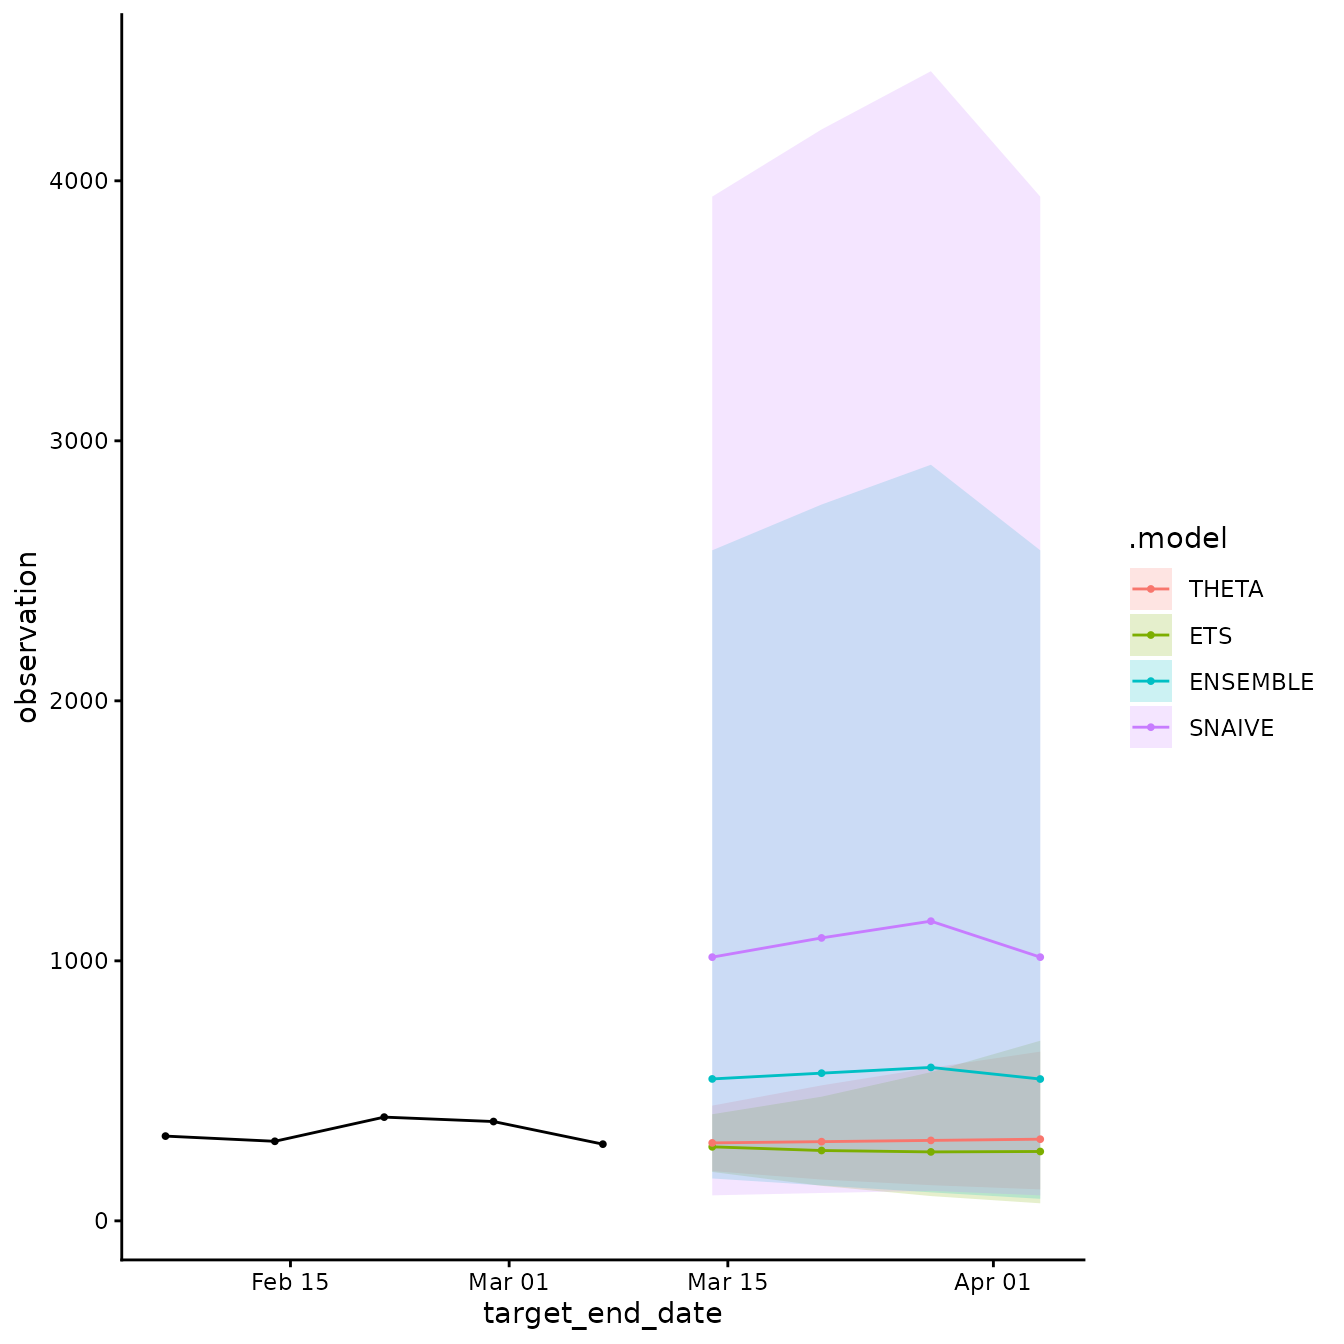
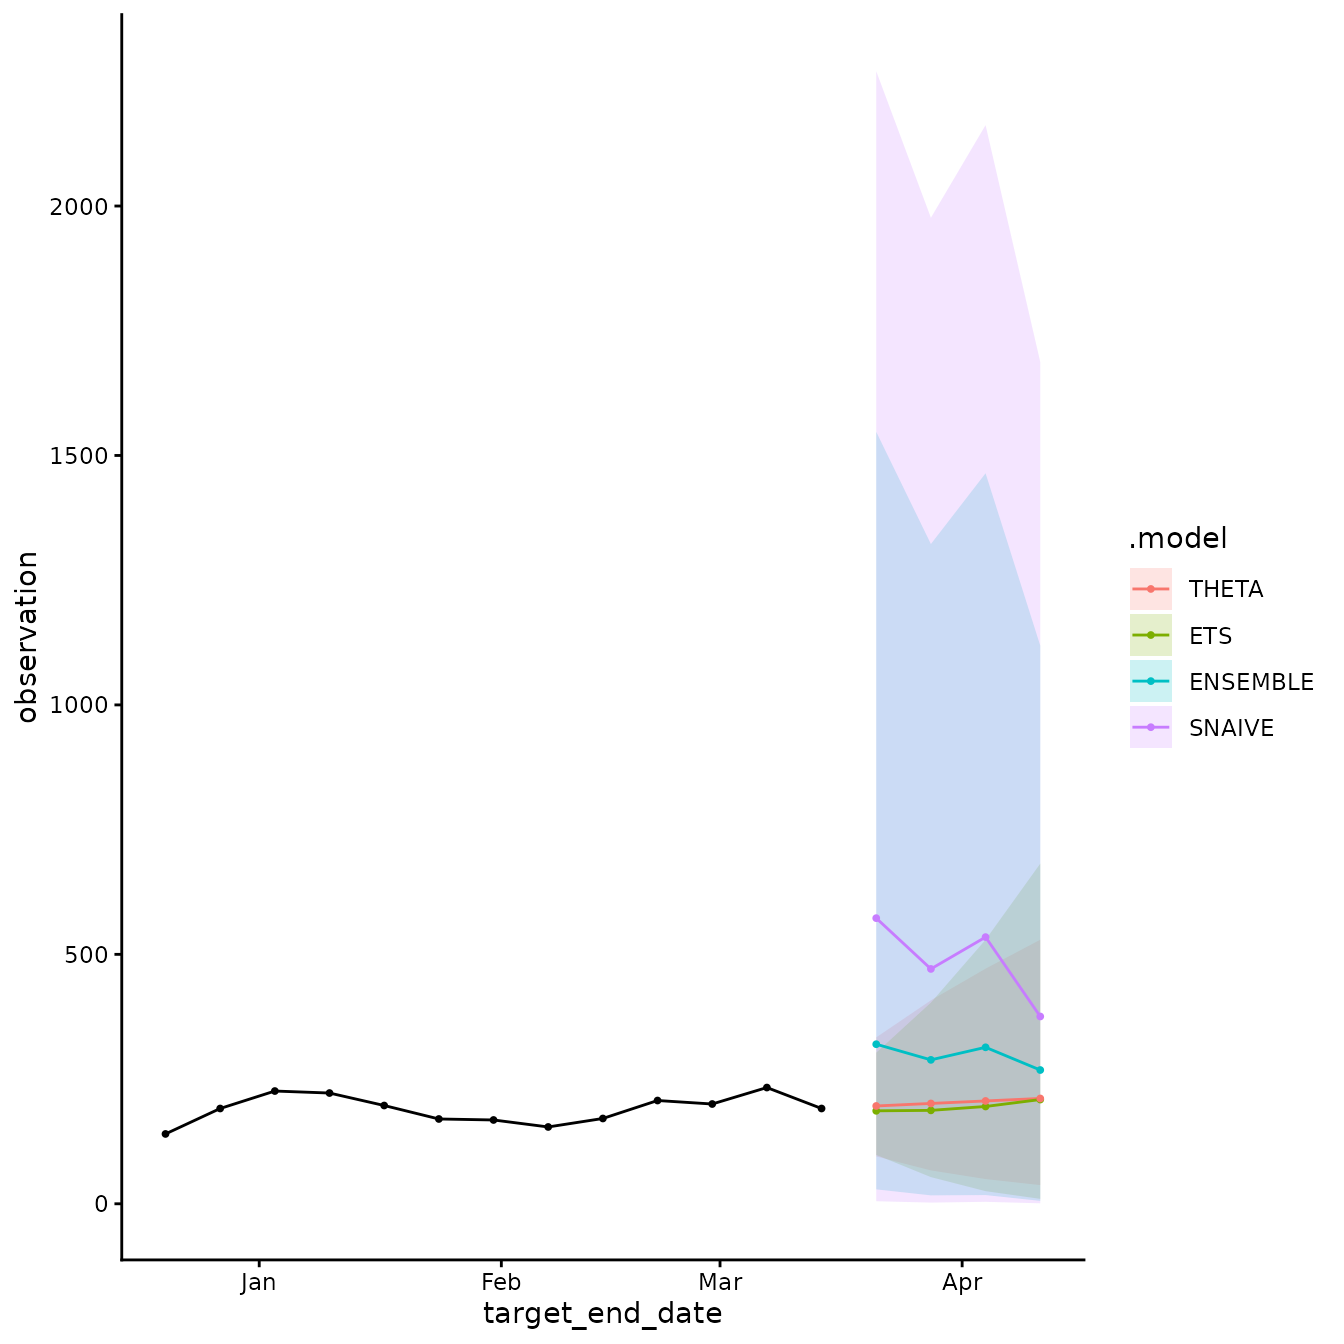
Deploying to gh-pages from @ ACCIDDA/acciddasuite@dce0e817cadc1a724e9abd7bb4d2f0451f2cc65a 🚀

diff --git a/articles/acciddasuite.html b/articles/acciddasuite.html
@@ -101,17 +101,17 @@ package.</p>
 <span><span class="kw"><a href="https://rdrr.io/r/base/library.html" class="external-link">library</a></span><span class="op">(</span><span class="va"><a href="https://ggplot2.tidyverse.org" class="external-link">ggplot2</a></span><span class="op">)</span></span>
 <span><span class="kw"><a href="https://rdrr.io/r/base/library.html" class="external-link">library</a></span><span class="op">(</span><span class="va"><a href="https://cygei.github.io/pipetime/;" class="external-link">pipetime</a></span><span class="op">)</span></span>
 <span><span class="kw"><a href="https://rdrr.io/r/base/library.html" class="external-link">library</a></span><span class="op">(</span><span class="va"><a href="https://github.com/ACCIDDA/acciddasuite" class="external-link">acciddasuite</a></span><span class="op">)</span></span>
-<span><span class="va">df</span> <span class="op">&lt;-</span> <span class="fu"><a href="../reference/get_data.html">get_data</a></span><span class="op">(</span>pathogen <span class="op">=</span> <span class="st">"covid"</span>, geo_values <span class="op">=</span> <span class="st">"ny"</span><span class="op">)</span></span>
+<span><span class="va">df</span> <span class="op">&lt;-</span> <span class="fu"><a href="../reference/get_data.html">get_data</a></span><span class="op">(</span>pathogen <span class="op">=</span> <span class="st">"covid"</span>, geo_values <span class="op">=</span> <span class="st">"nc"</span><span class="op">)</span></span>
 <span><span class="fu"><a href="https://rdrr.io/r/utils/head.html" class="external-link">head</a></span><span class="op">(</span><span class="va">df</span><span class="op">)</span></span>
 <span><span class="co">#&gt; <span style="color: #949494;"># A tibble: 6 × 5</span></span></span>
 <span><span class="co">#&gt;   as_of      location target            target_end_date observation</span></span>
 <span><span class="co">#&gt;   <span style="color: #949494; font-style: italic;">&lt;date&gt;</span>     <span style="color: #949494; font-style: italic;">&lt;chr&gt;</span>    <span style="color: #949494; font-style: italic;">&lt;chr&gt;</span>             <span style="color: #949494; font-style: italic;">&lt;date&gt;</span>                <span style="color: #949494; font-style: italic;">&lt;dbl&gt;</span></span></span>
-<span><span class="co">#&gt; <span style="color: #BCBCBC;">1</span> 2026-03-08 NY       wk inc covid hosp 2020-08-08              517</span></span>
-<span><span class="co">#&gt; <span style="color: #BCBCBC;">2</span> 2026-03-08 NY       wk inc covid hosp 2020-08-15              490</span></span>
-<span><span class="co">#&gt; <span style="color: #BCBCBC;">3</span> 2026-03-08 NY       wk inc covid hosp 2020-08-22              844</span></span>
-<span><span class="co">#&gt; <span style="color: #BCBCBC;">4</span> 2026-03-08 NY       wk inc covid hosp 2020-08-29              483</span></span>
-<span><span class="co">#&gt; <span style="color: #BCBCBC;">5</span> 2026-03-08 NY       wk inc covid hosp 2020-09-05              479</span></span>
-<span><span class="co">#&gt; <span style="color: #BCBCBC;">6</span> 2026-03-08 NY       wk inc covid hosp 2020-09-12              573</span></span></code></pre></div>
+<span><span class="co">#&gt; <span style="color: #BCBCBC;">1</span> 2026-03-15 NC       wk inc covid hosp 2020-08-08             <span style="text-decoration: underline;">1</span>008</span></span>
+<span><span class="co">#&gt; <span style="color: #BCBCBC;">2</span> 2026-03-15 NC       wk inc covid hosp 2020-08-15              782</span></span>
+<span><span class="co">#&gt; <span style="color: #BCBCBC;">3</span> 2026-03-15 NC       wk inc covid hosp 2020-08-22             <span style="text-decoration: underline;">1</span>150</span></span>
+<span><span class="co">#&gt; <span style="color: #BCBCBC;">4</span> 2026-03-15 NC       wk inc covid hosp 2020-08-29             <span style="text-decoration: underline;">2</span>055</span></span>
+<span><span class="co">#&gt; <span style="color: #BCBCBC;">5</span> 2026-03-15 NC       wk inc covid hosp 2020-09-05             <span style="text-decoration: underline;">1</span>762</span></span>
+<span><span class="co">#&gt; <span style="color: #BCBCBC;">6</span> 2026-03-15 NC       wk inc covid hosp 2020-09-12              941</span></span></code></pre></div>
 <p>To look at what <code>df</code> looks like, you can access the
 example <code>csv</code> file here: <a href="https://github.com/ACCIDDA/acciddasuite/blob/main/example_data.csv" class="external-link">example_data.csv</a>.</p>
 </div>
@@ -124,9 +124,11 @@ specific cutoff point (<code>eval_start_date</code>), then forecast
 <code>h</code> weeks ahead with expanding windows. The further back in
 time <code>eval_start_date</code> is, the more computationally intensive
 the evaluation step will be.</p>
+<p>We visualize the data and decide on the
+<code>eval_start_date</code>.</p>
 <div class="sourceCode" id="cb2"><pre class="downlit sourceCode r">
-<code class="sourceCode R"><span><span class="co"># We ony evaluate on the last 30 days of data for demonstration purposes</span></span>
-<span><span class="va">eval_start_date</span> <span class="op">&lt;-</span> <span class="fu"><a href="https://rdrr.io/r/base/Extremes.html" class="external-link">max</a></span><span class="op">(</span><span class="va">df</span><span class="op">$</span><span class="va">target_end_date</span><span class="op">)</span> <span class="op">-</span> <span class="fl">30</span></span></code></pre></div>
+<code class="sourceCode R"><span><span class="co"># We only evaluate on the last 90 days of data for demonstration purposes</span></span>
+<span><span class="va">eval_start_date</span> <span class="op">&lt;-</span> <span class="fu"><a href="https://rdrr.io/r/base/Extremes.html" class="external-link">max</a></span><span class="op">(</span><span class="va">df</span><span class="op">$</span><span class="va">target_end_date</span><span class="op">)</span> <span class="op">-</span> <span class="fl">90</span></span></code></pre></div>
 <p>Default models are:  * <code>SNAIVE</code> (Seasonal Naïve): Assumes
 this week will look like the same week last year. The simplest possible
 baseline. * <code>ETS</code> (Exponential Smoothing): A weighted average
@@ -151,14 +153,14 @@ fit.</p>
 <span><span class="co">#&gt; Models evaluated:</span></span>
 <span><span class="co">#&gt;  model_id       wis</span></span>
 <span><span class="co">#&gt;    &lt;char&gt;     &lt;num&gt;</span></span>
-<span><span class="co">#&gt;     THETA  26.88197</span></span>
-<span><span class="co">#&gt;       ETS  31.33395</span></span>
-<span><span class="co">#&gt;  ENSEMBLE  61.29016</span></span>
-<span><span class="co">#&gt;    SNAIVE 256.25401</span></span>
+<span><span class="co">#&gt;     THETA  35.32154</span></span>
+<span><span class="co">#&gt;       ETS  39.75354</span></span>
+<span><span class="co">#&gt;  ENSEMBLE  49.24098</span></span>
+<span><span class="co">#&gt;    SNAIVE 136.40562</span></span>
 <span><span class="co">#&gt; </span></span>
 <span><span class="co">#&gt; Forecast horizon:</span></span>
-<span><span class="co">#&gt;   From: 2026-02-07 </span></span>
-<span><span class="co">#&gt;   To:   2026-04-04 </span></span>
+<span><span class="co">#&gt;   From: 2025-12-20 </span></span>
+<span><span class="co">#&gt;   To:   2026-04-11 </span></span>
 <span><span class="co">#&gt; </span></span>
 <span><span class="co">#&gt; Contents:</span></span>
 <span><span class="co">#&gt;   $hubcast   hub forecast object</span></span>
@@ -200,8 +202,8 @@ documentation</a> for more information).</p>
 <code class="sourceCode R"><span><span class="fu"><a href="https://rdrr.io/pkg/pipetime/man/get_log.html" class="external-link">get_log</a></span><span class="op">(</span><span class="op">)</span></span>
 <span><span class="co">#&gt; $timing</span></span>
 <span><span class="co">#&gt;             timestamp       label  duration unit</span></span>
-<span><span class="co">#&gt; 1 2026-03-20 13:59:51  base fcast  6.808165 secs</span></span>
-<span><span class="co">#&gt; 2 2026-03-20 13:59:58 extra fcast 11.041293 secs</span></span></code></pre></div>
+<span><span class="co">#&gt; 1 2026-03-20 19:15:37  base fcast  9.385167 secs</span></span>
+<span><span class="co">#&gt; 2 2026-03-20 19:15:48 extra fcast 19.198079 secs</span></span></code></pre></div>
 </div>
 </div>
 <div class="section level2">

diff --git a/reference/get_data.html b/reference/get_data.html
@@ -82,20 +82,20 @@ for COVID-19, influenza, or RSV using <a href="https://cmu-delphi.github.io/epid
 <span class="r-wrn co"><span class="r-pr">#&gt;</span> limits if you proceed.</span>
 <span class="r-wrn co"><span class="r-pr">#&gt;</span> <span style="color: #00BBBB;">ℹ</span> See `?save_api_key()` for details on obtaining and setting API keys.</span>
 <span class="r-wrn co"><span class="r-pr">#&gt;</span> <span style="color: #555555;">This warning is displayed once every 8 hours.</span></span>
-<span class="r-out co"><span class="r-pr">#&gt;</span> <span style="color: #949494;"># A tibble: 584 × 5</span></span>
+<span class="r-out co"><span class="r-pr">#&gt;</span> <span style="color: #949494;"># A tibble: 586 × 5</span></span>
 <span class="r-out co"><span class="r-pr">#&gt;</span>    as_of      location target            target_end_date observation</span>
 <span class="r-out co"><span class="r-pr">#&gt;</span>    <span style="color: #949494; font-style: italic;">&lt;date&gt;</span>     <span style="color: #949494; font-style: italic;">&lt;chr&gt;</span>    <span style="color: #949494; font-style: italic;">&lt;chr&gt;</span>             <span style="color: #949494; font-style: italic;">&lt;date&gt;</span>                <span style="color: #949494; font-style: italic;">&lt;dbl&gt;</span></span>
-<span class="r-out co"><span class="r-pr">#&gt;</span> <span style="color: #BCBCBC;"> 1</span> 2026-03-08 CA       wk inc covid hosp 2020-08-08             <span style="text-decoration: underline;">4</span>836</span>
-<span class="r-out co"><span class="r-pr">#&gt;</span> <span style="color: #BCBCBC;"> 2</span> 2026-03-08 NY       wk inc covid hosp 2020-08-08              517</span>
-<span class="r-out co"><span class="r-pr">#&gt;</span> <span style="color: #BCBCBC;"> 3</span> 2026-03-08 CA       wk inc covid hosp 2020-08-15             <span style="text-decoration: underline;">4</span>273</span>
-<span class="r-out co"><span class="r-pr">#&gt;</span> <span style="color: #BCBCBC;"> 4</span> 2026-03-08 NY       wk inc covid hosp 2020-08-15              490</span>
-<span class="r-out co"><span class="r-pr">#&gt;</span> <span style="color: #BCBCBC;"> 5</span> 2026-03-08 CA       wk inc covid hosp 2020-08-22             <span style="text-decoration: underline;">3</span>498</span>
-<span class="r-out co"><span class="r-pr">#&gt;</span> <span style="color: #BCBCBC;"> 6</span> 2026-03-08 NY       wk inc covid hosp 2020-08-22              844</span>
-<span class="r-out co"><span class="r-pr">#&gt;</span> <span style="color: #BCBCBC;"> 7</span> 2026-03-08 CA       wk inc covid hosp 2020-08-29             <span style="text-decoration: underline;">3</span>100</span>
-<span class="r-out co"><span class="r-pr">#&gt;</span> <span style="color: #BCBCBC;"> 8</span> 2026-03-08 NY       wk inc covid hosp 2020-08-29              483</span>
-<span class="r-out co"><span class="r-pr">#&gt;</span> <span style="color: #BCBCBC;"> 9</span> 2026-03-08 CA       wk inc covid hosp 2020-09-05             <span style="text-decoration: underline;">2</span>888</span>
-<span class="r-out co"><span class="r-pr">#&gt;</span> <span style="color: #BCBCBC;">10</span> 2026-03-08 NY       wk inc covid hosp 2020-09-05              479</span>
-<span class="r-out co"><span class="r-pr">#&gt;</span> <span style="color: #949494;"># ℹ 574 more rows</span></span>
+<span class="r-out co"><span class="r-pr">#&gt;</span> <span style="color: #BCBCBC;"> 1</span> 2026-03-15 CA       wk inc covid hosp 2020-08-08             <span style="text-decoration: underline;">4</span>836</span>
+<span class="r-out co"><span class="r-pr">#&gt;</span> <span style="color: #BCBCBC;"> 2</span> 2026-03-15 NY       wk inc covid hosp 2020-08-08              517</span>
+<span class="r-out co"><span class="r-pr">#&gt;</span> <span style="color: #BCBCBC;"> 3</span> 2026-03-15 CA       wk inc covid hosp 2020-08-15             <span style="text-decoration: underline;">4</span>273</span>
+<span class="r-out co"><span class="r-pr">#&gt;</span> <span style="color: #BCBCBC;"> 4</span> 2026-03-15 NY       wk inc covid hosp 2020-08-15              490</span>
+<span class="r-out co"><span class="r-pr">#&gt;</span> <span style="color: #BCBCBC;"> 5</span> 2026-03-15 CA       wk inc covid hosp 2020-08-22             <span style="text-decoration: underline;">3</span>498</span>
+<span class="r-out co"><span class="r-pr">#&gt;</span> <span style="color: #BCBCBC;"> 6</span> 2026-03-15 NY       wk inc covid hosp 2020-08-22              844</span>
+<span class="r-out co"><span class="r-pr">#&gt;</span> <span style="color: #BCBCBC;"> 7</span> 2026-03-15 CA       wk inc covid hosp 2020-08-29             <span style="text-decoration: underline;">3</span>100</span>
+<span class="r-out co"><span class="r-pr">#&gt;</span> <span style="color: #BCBCBC;"> 8</span> 2026-03-15 NY       wk inc covid hosp 2020-08-29              483</span>
+<span class="r-out co"><span class="r-pr">#&gt;</span> <span style="color: #BCBCBC;"> 9</span> 2026-03-15 CA       wk inc covid hosp 2020-09-05             <span style="text-decoration: underline;">2</span>888</span>
+<span class="r-out co"><span class="r-pr">#&gt;</span> <span style="color: #BCBCBC;">10</span> 2026-03-15 NY       wk inc covid hosp 2020-09-05              479</span>
+<span class="r-out co"><span class="r-pr">#&gt;</span> <span style="color: #949494;"># ℹ 576 more rows</span></span>
 </code></pre></div>
     </div>
   </main><aside class="col-md-3"><nav id="toc" aria-label="Table of contents"><h2>On this page</h2>

diff --git a/articles/acciddasuite.md b/articles/acciddasuite.md
@@ -32,17 +32,17 @@ library(dplyr)
 library(ggplot2)
 library(pipetime)
 library(acciddasuite)
-df <- get_data(pathogen = "covid", geo_values = "ny")
+df <- get_data(pathogen = "covid", geo_values = "nc")
 head(df)
 #> # A tibble: 6 × 5
 #>   as_of      location target            target_end_date observation
 #>   <date>     <chr>    <chr>             <date>                <dbl>
-#> 1 2026-03-08 NY       wk inc covid hosp 2020-08-08              517
-#> 2 2026-03-08 NY       wk inc covid hosp 2020-08-15              490
-#> 3 2026-03-08 NY       wk inc covid hosp 2020-08-22              844
-#> 4 2026-03-08 NY       wk inc covid hosp 2020-08-29              483
-#> 5 2026-03-08 NY       wk inc covid hosp 2020-09-05              479
-#> 6 2026-03-08 NY       wk inc covid hosp 2020-09-12              573
+#> 1 2026-03-15 NC       wk inc covid hosp 2020-08-08             1008
+#> 2 2026-03-15 NC       wk inc covid hosp 2020-08-15              782
+#> 3 2026-03-15 NC       wk inc covid hosp 2020-08-22             1150
+#> 4 2026-03-15 NC       wk inc covid hosp 2020-08-29             2055
+#> 5 2026-03-15 NC       wk inc covid hosp 2020-09-05             1762
+#> 6 2026-03-15 NC       wk inc covid hosp 2020-09-12              941
 ```
 
 To look at what `df` looks like, you can access the example `csv` file
@@ -57,9 +57,11 @@ We fit models using the data available up to a specific cutoff point
 windows. The further back in time `eval_start_date` is, the more
 computationally intensive the evaluation step will be.
 
+We visualize the data and decide on the `eval_start_date`.
+
 ``` r
-# We ony evaluate on the last 30 days of data for demonstration purposes
-eval_start_date <- max(df$target_end_date) - 30
+# We only evaluate on the last 90 days of data for demonstration purposes
+eval_start_date <- max(df$target_end_date) - 90
 ```
 
 Default models are:  \* `SNAIVE` (Seasonal Naïve): Assumes this week
@@ -86,14 +88,14 @@ fcast
 #> Models evaluated:
 #>  model_id       wis
 #>    <char>     <num>
-#>     THETA  26.88197
-#>       ETS  31.33395
-#>  ENSEMBLE  61.29016
-#>    SNAIVE 256.25401
+#>     THETA  35.32154
+#>       ETS  39.75354
+#>  ENSEMBLE  49.24098
+#>    SNAIVE 136.40562
 #> 
 #> Forecast horizon:
-#>   From: 2026-02-07 
-#>   To:   2026-04-04 
+#>   From: 2025-12-20 
+#>   To:   2026-04-11 
 #> 
 #> Contents:
 #>   $hubcast   hub forecast object
@@ -145,8 +147,8 @@ You can check how long each step took by calling
 get_log()
 #> $timing
 #>             timestamp       label  duration unit
-#> 1 2026-03-20 13:59:51  base fcast  6.808165 secs
-#> 2 2026-03-20 13:59:58 extra fcast 11.041293 secs
+#> 1 2026-03-20 19:15:37  base fcast  9.385167 secs
+#> 2 2026-03-20 19:15:48 extra fcast 19.198079 secs
 ```
 
 ## Submit to MyRespiLens

diff --git a/reference/get_data.md b/reference/get_data.md
@@ -50,18 +50,18 @@ get_data(pathogen = "covid", geo_values = c("ca", "ny"))
 #> limits if you proceed.
 #> ℹ See `?save_api_key()` for details on obtaining and setting API keys.
 #> This warning is displayed once every 8 hours.
-#> # A tibble: 584 × 5
+#> # A tibble: 586 × 5
 #>    as_of      location target            target_end_date observation
 #>    <date>     <chr>    <chr>             <date>                <dbl>
-#>  1 2026-03-08 CA       wk inc covid hosp 2020-08-08             4836
-#>  2 2026-03-08 NY       wk inc covid hosp 2020-08-08              517
-#>  3 2026-03-08 CA       wk inc covid hosp 2020-08-15             4273
-#>  4 2026-03-08 NY       wk inc covid hosp 2020-08-15              490
-#>  5 2026-03-08 CA       wk inc covid hosp 2020-08-22             3498
-#>  6 2026-03-08 NY       wk inc covid hosp 2020-08-22              844
-#>  7 2026-03-08 CA       wk inc covid hosp 2020-08-29             3100
-#>  8 2026-03-08 NY       wk inc covid hosp 2020-08-29              483
-#>  9 2026-03-08 CA       wk inc covid hosp 2020-09-05             2888
-#> 10 2026-03-08 NY       wk inc covid hosp 2020-09-05              479
-#> # ℹ 574 more rows
+#>  1 2026-03-15 CA       wk inc covid hosp 2020-08-08             4836
+#>  2 2026-03-15 NY       wk inc covid hosp 2020-08-08              517
+#>  3 2026-03-15 CA       wk inc covid hosp 2020-08-15             4273
+#>  4 2026-03-15 NY       wk inc covid hosp 2020-08-15              490
+#>  5 2026-03-15 CA       wk inc covid hosp 2020-08-22             3498
+#>  6 2026-03-15 NY       wk inc covid hosp 2020-08-22              844
+#>  7 2026-03-15 CA       wk inc covid hosp 2020-08-29             3100
+#>  8 2026-03-15 NY       wk inc covid hosp 2020-08-29              483
+#>  9 2026-03-15 CA       wk inc covid hosp 2020-09-05             2888
+#> 10 2026-03-15 NY       wk inc covid hosp 2020-09-05              479
+#> # ℹ 576 more rows
 ```
